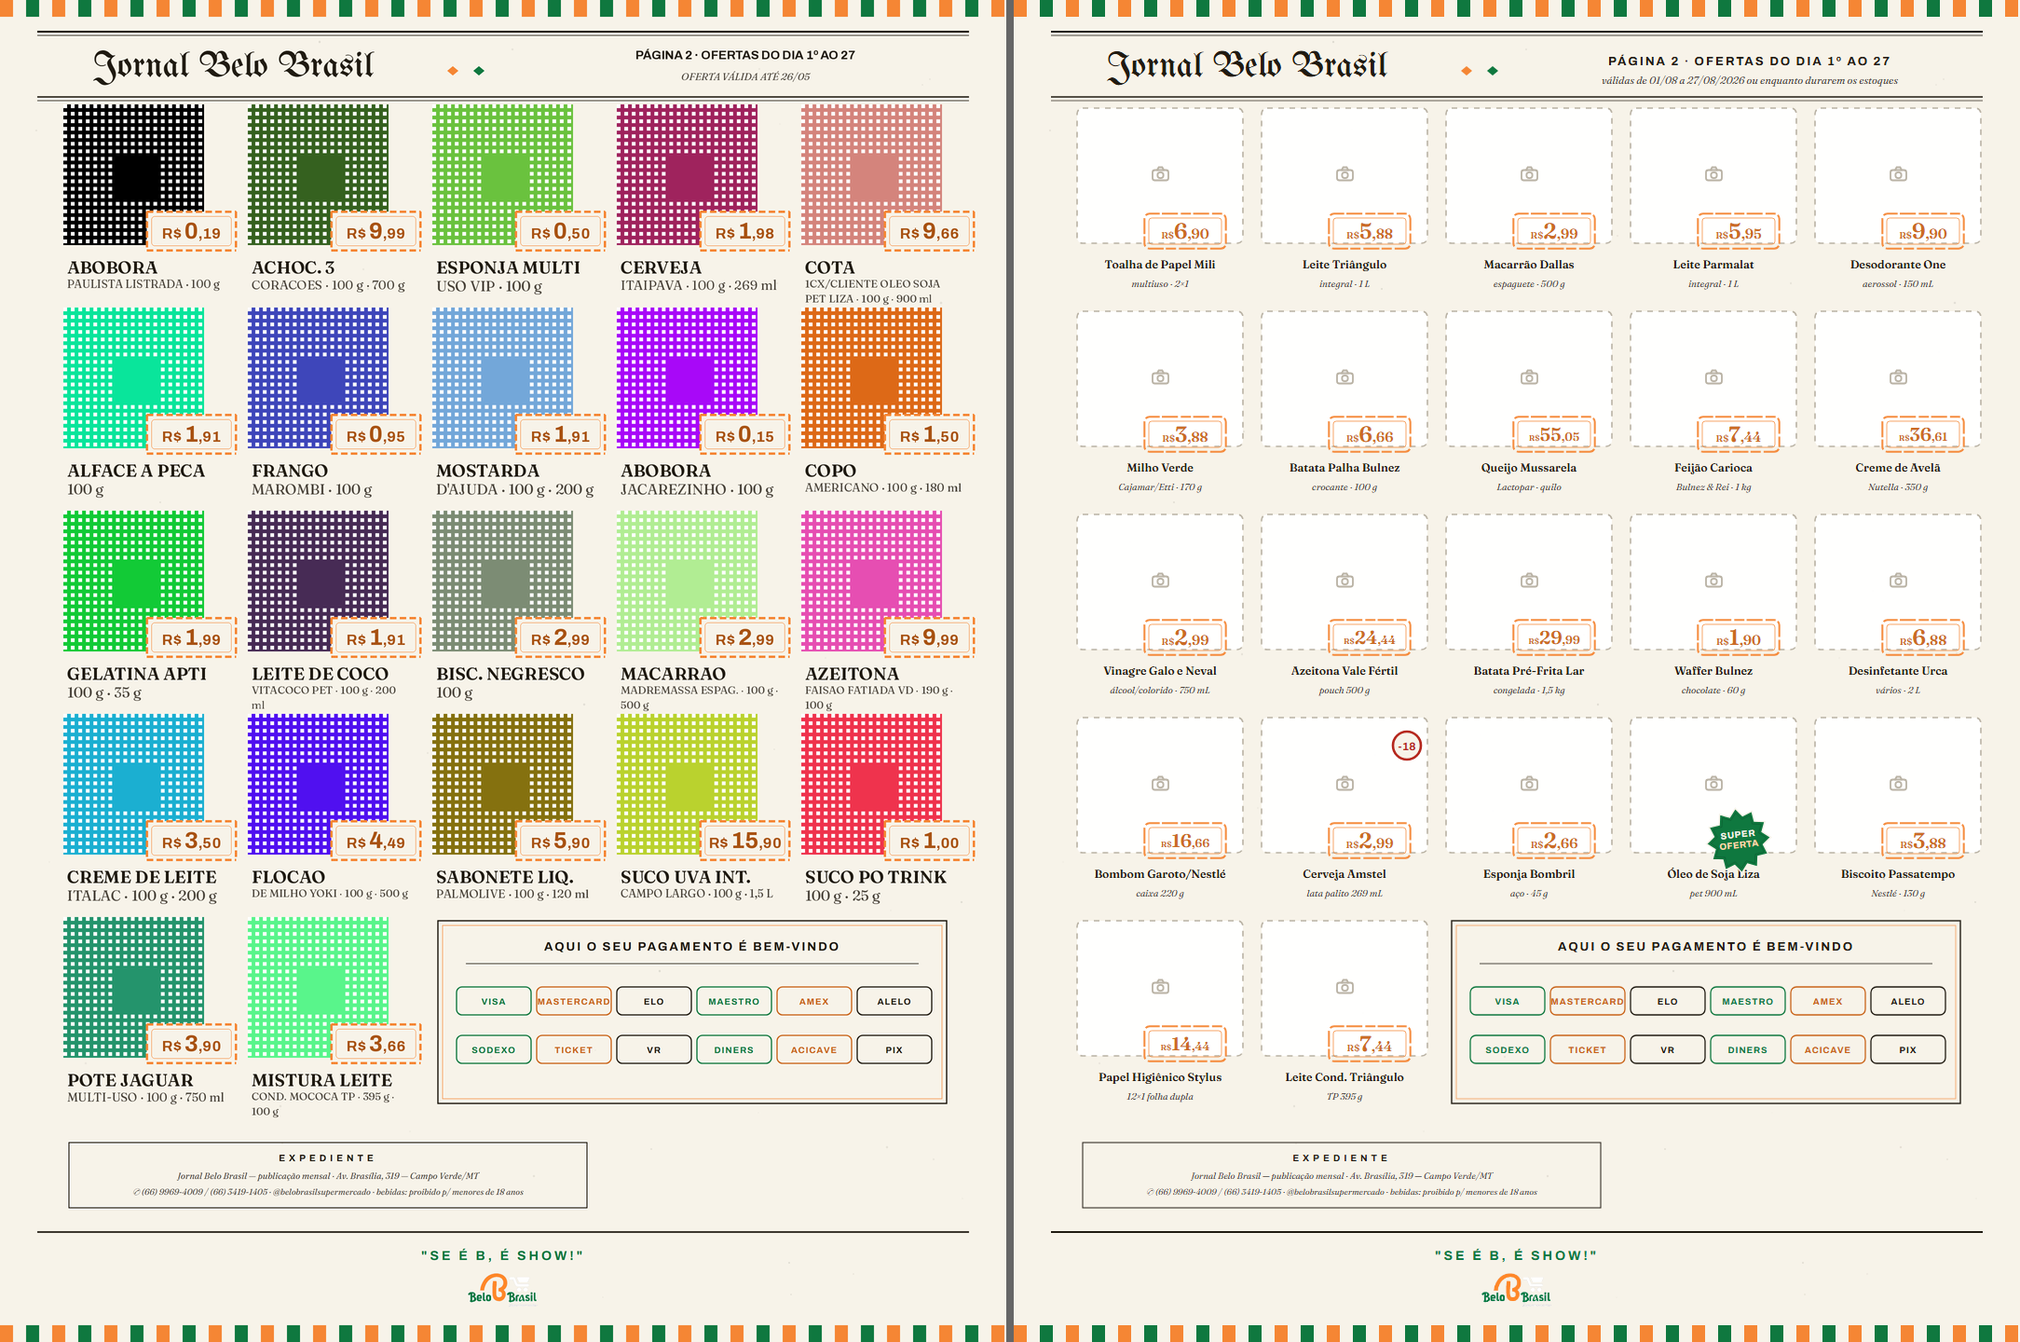
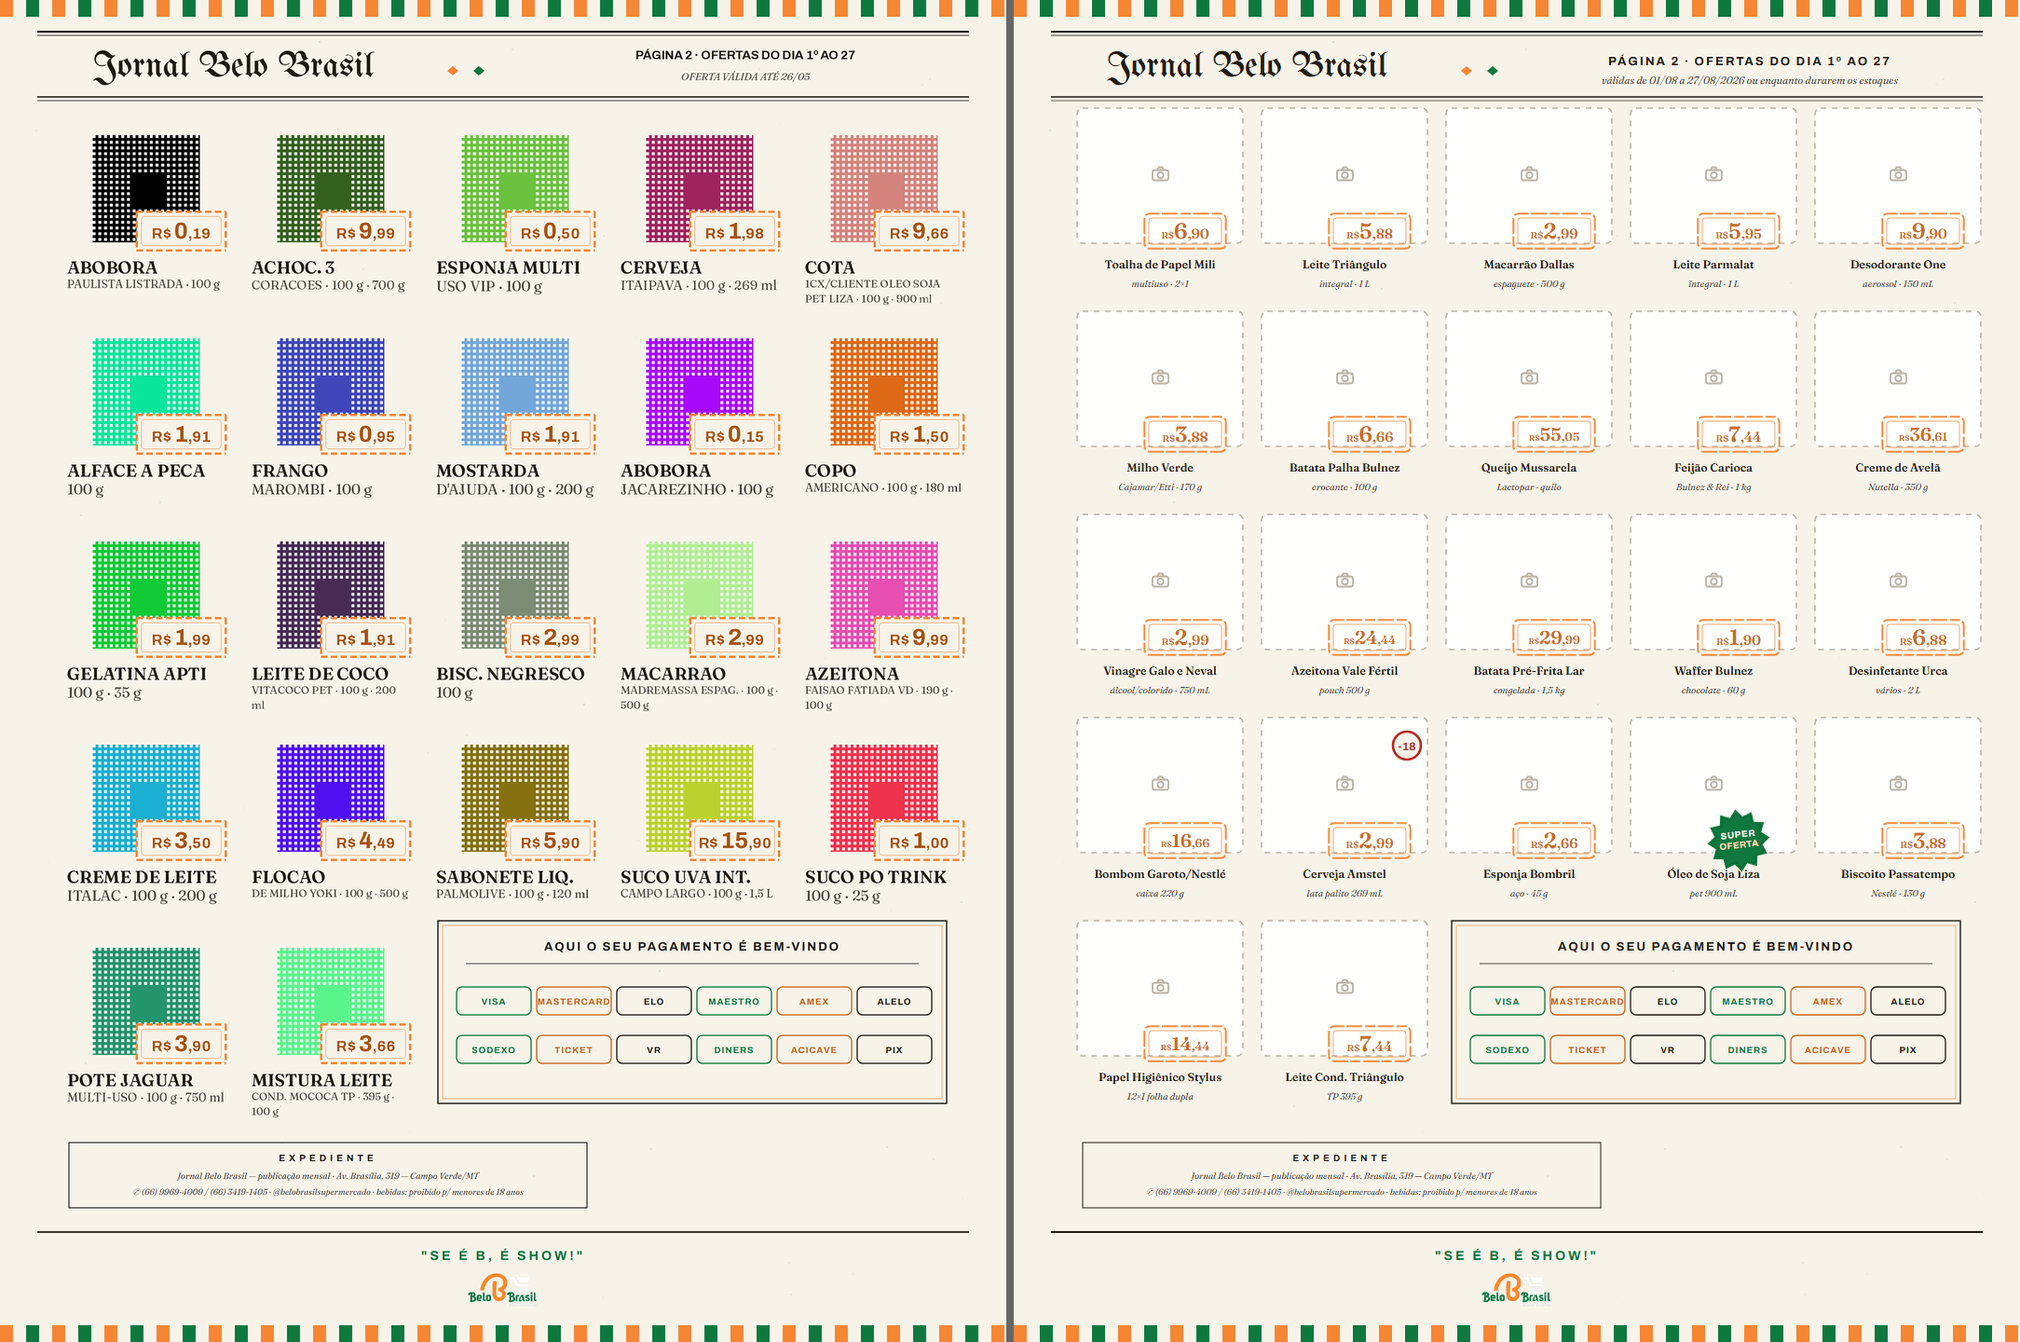
F13 ORDEM VICESIMUS-PRIMUS (04/08): A FOTO E OPTICA, O TEXTO E TIPOGRAFICO - o arquiteto corrigiu a PROPRIA prescricao ('eu diagnostiquei certo e prescrevi errado: alinhar a esquerda e como se resolve texto, nao imagem' - a margem esquerda era 0,0 em TODAS as celulas e a sobra caia toda do mesmo lad

diff --git a/app/rendering/compositor.py b/app/rendering/compositor.py
@@ -332,6 +332,32 @@ def _aplicar_mascara(camada: Image.Image, forma: Image.Image | None) -> Image.Im
     return camada
 
 
+def _fracao_de_tinta(img: Image.Image) -> float:
+    """Fração da caixa da imagem coberta por TINTA (alfa > 32) — a
+    régua do P4 (amostra 40×40, barata)."""
+    if img.mode != "RGBA":
+        return 1.0
+    a = img.getchannel("A").resize((40, 40))
+    return sum(1 for p in a.getdata() if p > 32) / 1600.0
+
+
+def _centroide_x(img: Image.Image) -> float:
+    """O centro ÓPTICO horizontal (centroide do alfa, px da imagem) —
+    P1: garrafa de base larga centra pelo volume aparente."""
+    if img.mode != "RGBA":
+        return img.width / 2
+    a = img.getchannel("A").resize((40, 40))
+    px = list(a.getdata())
+    soma = peso = 0.0
+    for i, p in enumerate(px):
+        if p > 32:
+            soma += (i % 40) + 0.5
+            peso += 1
+    if peso == 0:
+        return img.width / 2
+    return (soma / peso) / 40.0 * img.width
+
+
 def _desenhar_imagem(base: Image.Image, reg: Regiao, dados: DadosProduto, dpi: int) -> None:
     pares = _carregar_imagens(dados)
     if not pares:
@@ -353,18 +379,35 @@ def _desenhar_imagem(base: Image.Image, reg: Regiao, dados: DadosProduto, dpi: i
                 if bbox:
                     img = img.crop(bbox)
                 escala = min(rw / img.width, rh / img.height)
+                # VICESIMUS-PRIMUS/P4: NORMALIZAR POR ÁREA DE TINTA —
+                # a foto muito CHEIA (saco que enche a caixa) comprime
+                # em direção à mediana da página (teto: tinta ≤ 62% da
+                # zona); o piso é a escala máxima SEM CORTE (a garrafa
+                # fina para no teto físico da altura — nunca se corta
+                # foto por uniformidade; o limite é declarado).
+                # (o teto vale SÓ para a célula de coluna com mordida
+                # — o Jornal; o banner replanejável da Quarta mantém o
+                # ganho do Q1: o contrato "a foto sobe do chão" é do
+                # dono e uma foto opaca chapada tem tinta 100%)
+                if reg.uid in getattr(base, "_p4_uids", ()):
+                    frac_alfa = _fracao_de_tinta(img)
+                    if frac_alfa > 0:
+                        tinta = (frac_alfa * (img.width * escala)
+                                 * (img.height * escala)) \
+                            / max(rw * rh, 1)
+                        if tinta > 0.62:
+                            escala *= (0.62 / tinta) ** 0.5
                 nw = max(1, round(img.width * escala))
                 nh = max(1, round(img.height * escala))
                 img = img.resize((nw, nh))
-                # §7.2 (a decisão B): região com alinhamento ESQUERDA
-                # encosta a foto no eixo do texto — um eixo por coluna
-                if reg.alinhamento == Alinhamento.ESQUERDA:
-                    ox = x
-                elif reg.alinhamento == Alinhamento.DIREITA:
-                    ox = x + rw - nw
-                else:
-                    ox = x + (rw - nw) // 2
-                oy = y + rh - nh              # o produto assenta
+                # VICESIMUS-PRIMUS/P1: a FOTO É ÓPTICA — centra pela
+                # MASSA aparente (o centroide horizontal do alfa),
+                # nunca pela caixa nem pela margem do texto (L18: cada
+                # natureza tem seu eixo; o "esquerda" da §7.2 morreu)
+                cx_opt = _centroide_x(img)
+                ox = round(x + rw / 2 - cx_opt)
+                ox = max(x, min(ox, x + rw - nw))
+                oy = y + rh - nh              # P5: a LINHA DE CHÃO
                 base.paste(img, (ox, oy), img)
                 # §7.3: a SILHUETA pintada (px) — a régua do pouso da
                 # etiqueta é a TINTA do produto, nunca a caixa
@@ -722,26 +765,15 @@ def _canto_mais_vazio(base, reg_preco, regioes, rects_subst, dpi):
         ox, oy, nw, nh = sil             # px da tinta pintada
         px_por_mm = mm_para_px(1.0, dpi)
         sil_x0, sil_x1 = ox / px_por_mm, (ox + nw) / px_por_mm
-        sil_y1 = (oy + nh) / px_por_mm
         larg_sil = sil_x1 - sil_x0
         cel_x1 = r_img.x_mm + r_img.larg_mm
-        # a base da etiqueta fica onde a arte mandou (o bloco de
-        # texto vem logo abaixo); só o X e a MORDIDA mudam
-        if rp.larg_mm > 0.45 * larg_sil:
-            # AO LADO da silhueta (garrafa/caixinha) — se couber
-            x_lado = sil_x1 + 0.8
-            if x_lado + rp.larg_mm <= cel_x1 + 2.0:
-                return Retangulo(min(x_lado, cel_x1 + 2.0 - rp.larg_mm),
-                                 rp.y_mm, rp.larg_mm, rp.alt_mm)
-            # não coube ao lado: morde o canto mesmo assim (mínimo
-            # de invasão que o canto permite)
-            x_novo = min(sil_x1 - 0.25 * rp.larg_mm,
-                         cel_x1 - rp.larg_mm + 2.0)
-            return Retangulo(x_novo, rp.y_mm, rp.larg_mm, rp.alt_mm)
-        # produto LARGO: morde o canto inf-dir (~40% sobre a tinta —
-        # invasão ≈ 40%×45% ≈ 18% da largura, longe do centro)
-        x_novo = min(sil_x1 - 0.4 * rp.larg_mm,
-                     cel_x1 - rp.larg_mm + 2.0)
+        # VICESIMUS-PRIMUS/P3: a etiqueta MORDE O PRODUTO, sempre no
+        # MESMO canto (inf-dir da silhueta) — nunca na sobra: o olho
+        # aprende o padrão em três células e para de procurar (o ramo
+        # "ao lado" morreu; no estreito a mordida é proporcional para
+        # não atravessar o produto).
+        mordida = min(0.4 * rp.larg_mm, 0.5 * larg_sil)
+        x_novo = min(sil_x1 - mordida, cel_x1 - rp.larg_mm + 2.0)
         if abs(x_novo - rp.x_mm) < 0.5:
             return None
         return Retangulo(x_novo, rp.y_mm, rp.larg_mm, rp.alt_mm)
@@ -1455,6 +1487,30 @@ def compor_pagina(
             rects_subst.update(compactar_coluna(
                 regioes_cel, d.nome, d.descritor, d.unidade, dpi_ef,
                 fontes_dir, rects_subst, piso_pt=piso_nome))
+        # VICESIMUS-PRIMUS/P4: a identidade "coluna com mordida" (o
+        # preço sobrepõe a foto E há texto abaixo — o Jornal) liga o
+        # teto de massa do desenho da foto (uniformidade da fileira)
+        _img_slot = next((r for r in slot.regioes
+                          if r.tipo == TipoRegiao.IMAGEM
+                          and r.visivel), None)
+        if _img_slot is not None:
+            _ri = rects_subst.get(_img_slot.uid) or _img_slot.rect
+            _morde = any(
+                r.tipo == TipoRegiao.PRECO and r.visivel
+                and r.rect.y_mm < _ri.y_mm + _ri.alt_mm
+                and r.rect.y_mm + r.rect.alt_mm > _ri.y_mm
+                and r.rect.x_mm < _ri.x_mm + _ri.larg_mm
+                and r.rect.x_mm + r.rect.larg_mm > _ri.x_mm
+                for r in slot.regioes)
+            _abaixo = any(
+                r.tipo in (TipoRegiao.NOME, TipoRegiao.SUBTITULO)
+                and r.visivel
+                and r.rect.y_mm >= _ri.y_mm + _ri.alt_mm - 1.0
+                for r in slot.regioes)
+            if _morde and _abaixo:
+                if not hasattr(base, "_p4_uids"):
+                    base._p4_uids = set()
+                base._p4_uids.add(_img_slot.uid)
         for reg in slot.regioes:
             novo_rect = rects_subst.get(reg.uid)
             campos: dict = {}

diff --git a/app/tests/test_rodada_125_v3.py b/app/tests/test_rodada_125_v3.py
@@ -768,7 +768,10 @@ def test_s7_um_eixo_por_coluna_no_banco(tmp_path):
                 continue                 # herói/chamada: outra família
             assert nome.alinhamento == Alinhamento.ESQUERDA, sl.id
             assert sub.alinhamento == Alinhamento.ESQUERDA, sl.id
-            assert img.alinhamento == Alinhamento.ESQUERDA, sl.id
+            # VICESIMUS-PRIMUS/P1 (supera o §7.2 DE PROPÓSITO): a
+            # FOTO centra (o centro óptico é do motor) — só o TEXTO
+            # é tipográfico e assenta na margem (L18)
+            assert img.alinhamento == Alinhamento.CENTRO, sl.id
             assert pr.rotacao_graus == 0.0, (sl.id, pr.rotacao_graus)
             n += 1
     assert n >= 30, f"só {n} células medidas"
@@ -932,3 +935,67 @@ def test_vicesimus_etiqueta_encostada_e_sem_barriga(tmp_path):
         if ix * iy <= 0:                 # pousou AO LADO: encostada
             folga = max(pr.x_mm - sx1, sx0 - (pr.x_mm + pr.larg_mm))
             assert folga <= 3.0, f"{sl.id}: a {folga:.1f} mm da tinta"
+
+
+def test_vprimus_linha_de_chao(tmp_path):
+    """P5 da VICESIMUS-PRIMUS: numa fileira as BASES se alinham (a
+    gôndola) — a garrafa em pé e o pacote deitado pisam no mesmo
+    chão. O plano Q1 punha a foto deitada no TOPO (arranjo vertical)
+    quando o preço morde a foto — célula com mordida tem identidade
+    própria e NUNCA é reordenada."""
+    from decimal import Decimal
+
+    from PIL import Image
+
+    from app.rendering.compositor import (DadosProduto, compor_pagina,
+                                          mm_para_px)
+    from app.rendering.model import (
+        Ajuste, AlinhamentoV, FormaPreco, LayoutDef, Pagina, Regiao,
+        Retangulo, Slot, TipoRegiao,
+    )
+    from app.tests import acervo
+
+    fontes = tmp_path / "fontes"
+    fontes.mkdir()
+    acervo.copiar_fontes_reais(fontes)
+    nome_f = next(fontes.glob("*.ttf")).name
+
+    def _celula(sid, x0, foto):
+        return Slot(sid, [
+            Regiao(TipoRegiao.IMAGEM, Retangulo(x0, 10, 42, 37),
+                   ajuste=Ajuste.ASSENTAR, zona_flex=True),
+            Regiao(TipoRegiao.PRECO, Retangulo(x0 + 20, 33, 24, 11),
+                   fonte=nome_f, tamanho_max_pt=18,
+                   forma_preco=FormaPreco.CARIMBO,
+                   forma_cor="#F58634", cor="#A85212"),
+            Regiao(TipoRegiao.NOME, Retangulo(x0, 51, 42, 6),
+                   fonte=nome_f, tamanho_max_pt=12,
+                   alinhamento_v=AlinhamentoV.TOPO),
+        ])
+
+    garrafa = tmp_path / "g.png"
+    im = Image.new("RGBA", (200, 800), (0, 0, 0, 0))
+    im.paste((60, 60, 160, 255), (60, 0, 140, 800))
+    im.save(garrafa)
+    deitado = tmp_path / "d.png"
+    im2 = Image.new("RGBA", (800, 220), (0, 0, 0, 0))
+    im2.paste((190, 60, 40, 255), (10, 10, 790, 210))
+    im2.save(deitado)
+    lay = LayoutDef(110.0, 70.0, dpi=96, paginas=[Pagina(slots=[
+        _celula("empe", 5, garrafa), _celula("deitada", 55, deitado)])])
+    pag = lay.paginas[0]
+    dados = {
+        "empe": DadosProduto(nome="G", preco_por=Decimal("9.99"),
+                             imagem_path=str(garrafa)),
+        "deitada": DadosProduto(nome="D", preco_por=Decimal("9.99"),
+                                imagem_path=str(deitado)),
+    }
+    img = compor_pagina(lay, pag, dados, fontes_dir=fontes)
+    ppm = mm_para_px(1.0, 96)
+    bases = []
+    for sl in pag.slots:
+        rimg = sl.regioes[0]
+        _ox, oy, _nw, nh = img._silhuetas[rimg.uid]
+        bases.append((oy + nh) / ppm)
+    assert abs(bases[0] - bases[1]) <= 1.0, (
+        f"bases desalinhadas: {bases} — a deitada flutuou")

diff --git a/app/rendering/foto_fit.py b/app/rendering/foto_fit.py
@@ -266,12 +266,31 @@ def plano_da_celula(regioes: list[Regiao], img_w: float,
         (r.rect.x_mm + r.rect.larg_mm / 2) < rf.x_mm
         or (r.rect.x_mm + r.rect.larg_mm / 2) > rf.x_mm + rf.larg_mm
         for r in textos)
-    planos = ((_plano_lateral(foto, textos, bbox, prop),)
-              if eh_lateral else
-              (_plano_lateral(foto, textos, bbox, prop),
-               _plano_vertical(foto, textos, bbox, prop),
-               _plano_misto(foto, textos, bbox, prop)))
-    cands = [c for c in planos if c]
+    # VICESIMUS-PRIMUS/P5: a célula de COLUNA COM MORDIDA (o carimbo
+    # sobrepõe a foto E o bloco de texto vive ABAIXO dela — o Jornal)
+    # tem identidade PRÓPRIA: reordená-la (vertical/misto punham a
+    # foto no TOPO) quebrava a LINHA DE CHÃO da fileira (o Kolynos
+    # flutuava 25 mm) e a proximidade do preço; nela só vale o ABRAÇO
+    # da rede. Célula com textos LATERAIS (o banner da Quarta) segue
+    # replanejável — o contrato do Q1 lá é do dono.
+    preco_morde = any(
+        r.tipo == TipoRegiao.PRECO and r.visivel
+        and r.rect.y_mm < rf.y_mm + rf.alt_mm
+        and r.rect.y_mm + r.rect.alt_mm > rf.y_mm
+        and r.rect.x_mm < rf.x_mm + rf.larg_mm
+        and r.rect.x_mm + r.rect.larg_mm > rf.x_mm
+        for r in regioes)
+    texto_abaixo = any(
+        r.rect.y_mm >= rf.y_mm + rf.alt_mm - 1.0 for r in textos)
+    if preco_morde and texto_abaixo:
+        cands = []
+    else:
+        planos = ((_plano_lateral(foto, textos, bbox, prop),)
+                  if eh_lateral else
+                  (_plano_lateral(foto, textos, bbox, prop),
+                   _plano_vertical(foto, textos, bbox, prop),
+                   _plano_misto(foto, textos, bbox, prop)))
+        cands = [c for c in planos if c]
     if cands:
         melhor = max(cands, key=lambda c: c.area)
         if melhor.area >= GANHO_MINIMO * area_atual:
@@ -289,8 +308,13 @@ def plano_da_celula(regioes: list[Regiao], img_w: float,
         w = min(rf.larg_mm, rf.alt_mm * prop)
         h = w / prop
         fundo = rf.y_mm + rf.alt_mm
+        # VICESIMUS-PRIMUS/P5 (a LINHA DE CHÃO): célula de COLUNA é a
+        # que tem texto ABAIXO da zona — o limiar acompanha a margem
+        # interna de 3mm + respiro (o 2,5 antigo quebrou quando a
+        # margem nova abriu 4mm e as fotos DEITADAS passaram a flutuar
+        # ~12mm acima do chão da fileira: o Kolynos e o Passatempo)
         colado = any(r.tipo in _TIPOS_REALOCAVEIS and r.visivel
-                     and 0.0 <= r.rect.y_mm - fundo <= 2.5
+                     and 0.0 <= r.rect.y_mm - fundo <= 6.5
                      for r in regioes)
         y_novo = (fundo - h) if colado \
             else rf.y_mm + (rf.alt_mm - h) / 2

diff --git a/app/rendering/encartes.py b/app/rendering/encartes.py
@@ -751,9 +751,12 @@ def _jornal_linha(pref: str, slots: list, y: float, n: int,
             # ficava vazia. A zona agora é 47,1×40 mm (178×151 px,
             # proporção 1,18): o produto cresce ~30%. L17: antes de
             # escalar, MEÇA A PROPORÇÃO — quem manda nela é o produto.
-            # §7.2 (a decisão B): a foto encosta à ESQUERDA (um eixo).
-            _img(x + 4, y - 20, 178, 151, flex=True,
-                 alin=Alinhamento.ESQUERDA),
+            # VICESIMUS-PRIMUS/P1-P2: a foto CENTRA pelo centro ÓPTICO
+            # (do motor; o "esquerda" da §7.2 era remédio de texto em
+            # imagem — L18: cada natureza tem seu eixo) e a zona ganha
+            # MARGEM INTERNA de 3 mm nos 4 lados (nada encosta na
+            # borda; a margem esquerda era 0,0 em TODAS as células)
+            _img(x + 15, y - 9, 156, 137, flex=True),
             # o carimbo DEPOIS da foto na lista (L-C: preço é a última
             # camada) — morde o canto INFERIOR direito (36 px sobre a
             # base da tinta, nunca a barriga); o pouso fino é do

diff --git a/docs/RODADA_125_O_JORNAL_DO_DONO.md b/docs/RODADA_125_O_JORNAL_DO_DONO.md
@@ -1532,3 +1532,38 @@ acervo, como o Kolynos×Sorriso: curadoria do dono), §3.7 (área
 DONO** — o arquiteto a chama de "a maior perda de venda da página";
 a decisão reverte a hierarquia que o dono ditou na v2 e só ele
 desempata.
+
+## A ORDEM VICESIMUS-PRIMUS (04/08) — a resposta do builder
+
+O arquiteto corrigiu a própria prescrição ("alinhar à esquerda é como
+se resolve texto, não imagem") e os cinco princípios entraram:
+
+- **P1 (a foto é óptica, o texto é tipográfico):** a foto CENTRA pelo
+  centro ÓPTICO — o centroide do alfa (`_centroide_x`), não a caixa;
+  o texto segue assentado à esquerda. O `alin=ESQUERDA` da IMAGEM
+  (§7.2) morreu — era o remédio do texto aplicado à imagem.
+- **P2 (margem interna):** a zona ganhou inset de 3 mm nos 4 lados no
+  gerador (a margem esquerda era 0,0 em TODAS as células).
+- **P3 (a mordida única):** o ramo "ao lado" MORREU — a etiqueta
+  morde SEMPRE o canto inf-dir da silhueta (mordida proporcional no
+  estreito para não atravessar); o olho aprende o padrão em três.
+- **P4 (massa por área de tinta):** teto de 62% da zona — o muito
+  cheio (a Yoki a 89%) comprime em direção à mediana (54% medida);
+  o piso é a escala máxima SEM CORTE (a garrafa para no teto físico
+  de ~18-22% — nunca se corta foto por uniformidade; declarado). O
+  teto vale SÓ para a identidade "coluna com mordida" (o Jornal) —
+  no banner replanejável da Quarta o contrato Q1 do dono ("a foto
+  sobe do chão") permanece (uma foto opaca chapada tem tinta 100% e
+  o teto o desfazia — pego pela suíte e consertado na identidade).
+- **P5 (a linha de chão):** VARIAÇÃO ZERO medida nas duas páginas. A
+  caça achou o flutuador: o plano Q1 escolhia o arranjo VERTICAL
+  (foto no TOPO) nas células com mordida — o Kolynos flutuava 25 mm;
+  célula de coluna com mordida agora NUNCA é reordenada (só o abraço
+  da rede, que ancora no rodapé; o limiar do "colado" acompanhou a
+  margem nova: 2,5→6,5 mm).
+
+**L18 registrada** (cada natureza tem seu eixo: tipo alinha por
+margem; imagem centra por massa óptica; preço ancora no produto).
+Guardião novo `test_vprimus_linha_de_chao` (garrafa em pé + pacote
+deitado pisam juntos). Pendente do dono (4ª vez, o arquiteto pesa):
+**a marca no nome**.
